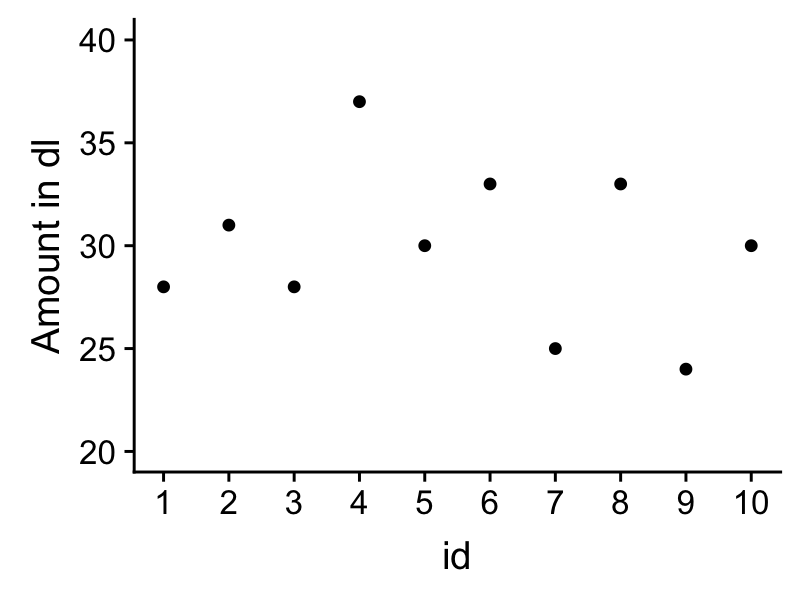
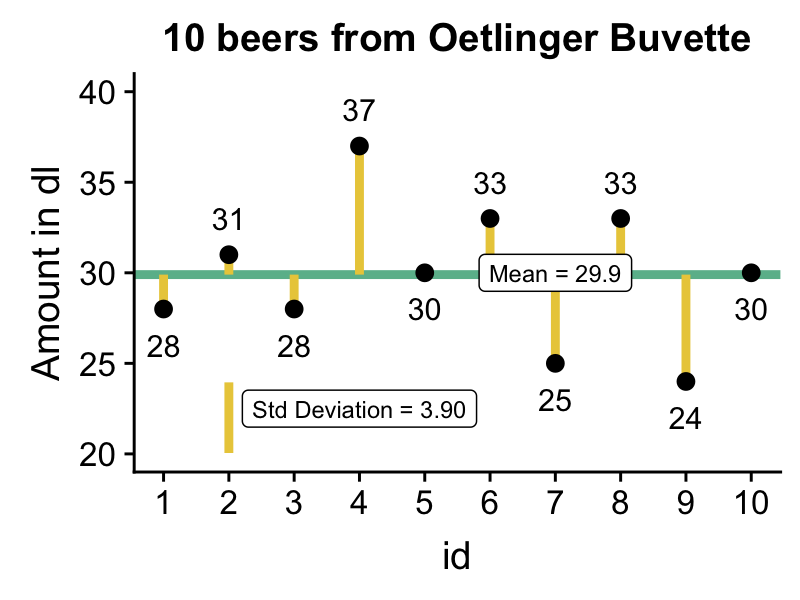
minor

diff --git a/_sessions/Intro2Stats/Intro2Stats.html b/_sessions/Intro2Stats/Intro2Stats.html
@@ -48,10 +48,6 @@ layout: true
 
 
 
----
-
-
-
 .pull-left6[
 
 # 
@@ -195,11 +191,17 @@ Sample statistics give us &lt;high&gt;estimates&lt;/high&gt; of key model parame
 ]
 
 
-.pull-right45[
+.pull-right5[
 
 
+### Raw data &amp; Sample Statistics
 
-&lt;img src="Intro2Stats_files/figure-html/unnamed-chunk-8-1.png" style="display: block; margin: auto;" /&gt;
+&lt;img src="Intro2Stats_files/figure-html/unnamed-chunk-8-1.png" width="100%" style="display: block; margin: auto;" /&gt;
+
+
+`$$Mean = \frac{28+31+28+...}{10} = 29.9$$`
+
+`$$Standard \; Deviation = \sqrt{\frac{(28-29.9)^2+(31-29.9)^2+...}{10-1}} = 3.90$$`
 
 
 
